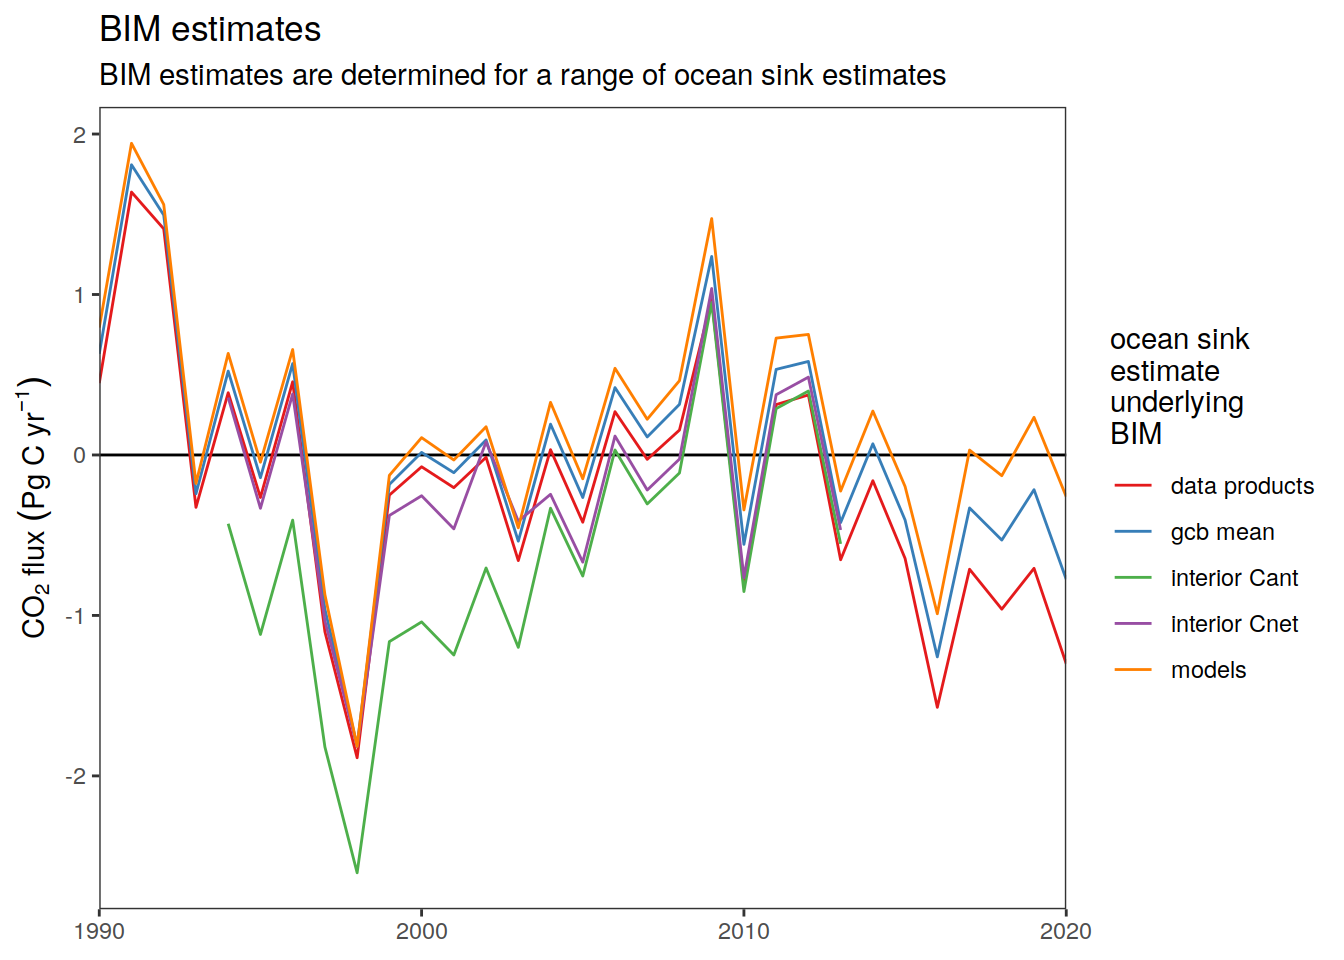
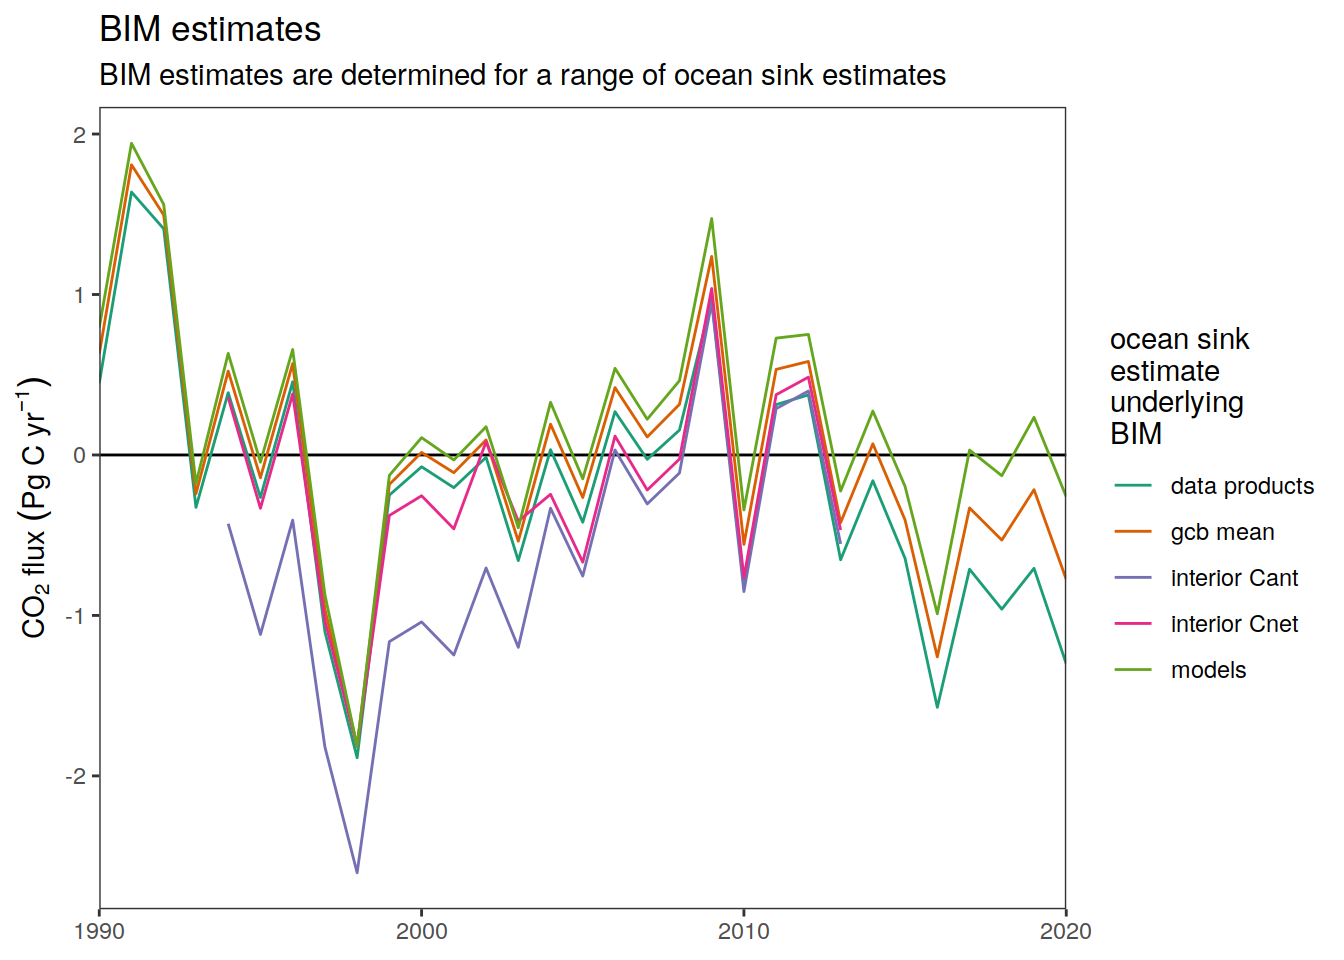
Build site.

diff --git a/docs/results_publication.html b/docs/results_publication.html
@@ -869,15 +869,15 @@ project makes it easier to run your code on other machines.</p>
 <div class="panel panel-default">
 <div class="panel-heading">
 <p class="panel-title">
-<a data-toggle="collapse" data-parent="#workflowr-checks" href="#strongRepositoryversionstrongahrefhttpsgithubcomjensdanielmuelleremlrobsanalysistreec01f61ea83335b03e895f214d7f63c0b4f1c13c4targetblankc01f61ea">
+<a data-toggle="collapse" data-parent="#workflowr-checks" href="#strongRepositoryversionstrongahrefhttpsgithubcomjensdanielmuelleremlrobsanalysistree104a756b48a90c8d1c2554d042a83e6f75883375targetblank104a756a">
 <span class="glyphicon glyphicon-ok text-success"
 aria-hidden="true"></span> <strong>Repository version:</strong>
-<a href="https://github.com/jens-daniel-mueller/emlr_obs_analysis/tree/c01f61ea83335b03e895f214d7f63c0b4f1c13c4" target="_blank">c01f61e</a>
+<a href="https://github.com/jens-daniel-mueller/emlr_obs_analysis/tree/104a756b48a90c8d1c2554d042a83e6f75883375" target="_blank">104a756</a>
 </a>
 </p>
 </div>
 <div
[2 lines of base64/hex data omitted]
 class="panel-collapse collapse">
 <div class="panel-body">
 <p>
@@ -887,7 +887,7 @@ reproducibility.
 </p>
 <p>
 The results in this page were generated with repository version
-<a href="https://github.com/jens-daniel-mueller/emlr_obs_analysis/tree/c01f61ea83335b03e895f214d7f63c0b4f1c13c4" target="_blank">c01f61e</a>.
+<a href="https://github.com/jens-daniel-mueller/emlr_obs_analysis/tree/104a756b48a90c8d1c2554d042a83e6f75883375" target="_blank">104a756</a>.
 See the <em>Past versions</em> tab to see a history of the changes made
 to the R Markdown and HTML files.
 </p>
@@ -963,6 +963,40 @@ Message
 </tr>
 </thead>
 <tbody>
+<tr>
+<td>
+Rmd
+</td>
+<td>
+<a href="https://github.com/jens-daniel-mueller/emlr_obs_analysis/blob/104a756b48a90c8d1c2554d042a83e6f75883375/analysis/results_publication.Rmd" target="_blank">104a756</a>
+</td>
+<td>
+jens-daniel-mueller
+</td>
+<td>
+2022-11-29
+</td>
+<td>
+refined BIM color scale
+</td>
+</tr>
+<tr>
+<td>
+html
+</td>
+<td>
+<a href="https://rawcdn.githack.com/jens-daniel-mueller/emlr_obs_analysis/439cb85a6a38a7ae7790e81cd684658038de9c39/docs/results_publication.html" target="_blank">439cb85</a>
+</td>
+<td>
+jens-daniel-mueller
+</td>
+<td>
+2022-11-29
+</td>
+<td>
+Build site.
+</td>
+</tr>
 <tr>
 <td>
 Rmd
@@ -40029,6 +40063,17 @@ Date
 <tbody>
 <tr>
 <td>
+<a href="https://github.com/jens-daniel-mueller/emlr_obs_analysis/blob/439cb85a6a38a7ae7790e81cd684658038de9c39/docs/figure/results_publication.Rmd/GCB_land_sink_assesment-1.png" target="_blank">439cb85</a>
+</td>
+<td>
+jens-daniel-mueller
+</td>
+<td>
+2022-11-29
+</td>
+</tr>
+<tr>
+<td>
 <a href="https://github.com/jens-daniel-mueller/emlr_obs_analysis/blob/9048dc40d3e160bd4651039e52c1337d6defdfe9/docs/figure/results_publication.Rmd/GCB_land_sink_assesment-1.png" target="_blank">9048dc4</a>
 </td>
 <td>
@@ -40115,6 +40160,17 @@ Date
 </tr>
 </thead>
 <tbody>
+<tr>
+<td>
+<a href="https://github.com/jens-daniel-mueller/emlr_obs_analysis/blob/439cb85a6a38a7ae7790e81cd684658038de9c39/docs/figure/results_publication.Rmd/GCB_land_sink_assesment-2.png" target="_blank">439cb85</a>
+</td>
+<td>
+jens-daniel-mueller
+</td>
+<td>
+2022-11-29
+</td>
+</tr>
 <tr>
 <td>
 <a href="https://github.com/jens-daniel-mueller/emlr_obs_analysis/blob/9048dc40d3e160bd4651039e52c1337d6defdfe9/docs/figure/results_publication.Rmd/GCB_land_sink_assesment-2.png" target="_blank">9048dc4</a>
@@ -40209,6 +40265,17 @@ Date
 <tbody>
 <tr>
 <td>
+<a href="https://github.com/jens-daniel-mueller/emlr_obs_analysis/blob/439cb85a6a38a7ae7790e81cd684658038de9c39/docs/figure/results_publication.Rmd/GCB_land_sink_assesment-3.png" target="_blank">439cb85</a>
+</td>
+<td>
+jens-daniel-mueller
+</td>
+<td>
+2022-11-29
+</td>
+</tr>
+<tr>
+<td>
 <a href="https://github.com/jens-daniel-mueller/emlr_obs_analysis/blob/9048dc40d3e160bd4651039e52c1337d6defdfe9/docs/figure/results_publication.Rmd/GCB_land_sink_assesment-3.png" target="_blank">9048dc4</a>
 </td>
 <td>
@@ -40299,6 +40366,17 @@ Date
 </tr>
 </thead>
 <tbody>
+<tr>
+<td>
+<a href="https://github.com/jens-daniel-mueller/emlr_obs_analysis/blob/439cb85a6a38a7ae7790e81cd684658038de9c39/docs/figure/results_publication.Rmd/GCB_land_sink_assesment-4.png" target="_blank">439cb85</a>
+</td>
+<td>
+jens-daniel-mueller
+</td>
+<td>
+2022-11-29
+</td>
+</tr>
 <tr>
 <td>
 <a href="https://github.com/jens-daniel-mueller/emlr_obs_analysis/blob/9048dc40d3e160bd4651039e52c1337d6defdfe9/docs/figure/results_publication.Rmd/GCB_land_sink_assesment-4.png" target="_blank">9048dc4</a>
@@ -40436,6 +40514,17 @@ Date
 </tr>
 </thead>
 <tbody>
+<tr>
+<td>
+<a href="https://github.com/jens-daniel-mueller/emlr_obs_analysis/blob/439cb85a6a38a7ae7790e81cd684658038de9c39/docs/figure/results_publication.Rmd/GCB_land_sink_assesment-5.png" target="_blank">439cb85</a>
+</td>
+<td>
+jens-daniel-mueller
+</td>
+<td>
+2022-11-29
+</td>
+</tr>
 <tr>
 <td>
 <a href="https://github.com/jens-daniel-mueller/emlr_obs_analysis/blob/9048dc40d3e160bd4651039e52c1337d6defdfe9/docs/figure/results_publication.Rmd/GCB_land_sink_assesment-5.png" target="_blank">9048dc4</a>
@@ -40580,6 +40669,17 @@ Date
 <tbody>
 <tr>
 <td>
+<a href="https://github.com/jens-daniel-mueller/emlr_obs_analysis/blob/439cb85a6a38a7ae7790e81cd684658038de9c39/docs/figure/results_publication.Rmd/GCB_land_sink_assesment-6.png" target="_blank">439cb85</a>
+</td>
+<td>
+jens-daniel-mueller
+</td>
+<td>
+2022-11-29
+</td>
+</tr>
+<tr>
+<td>
 <a href="https://github.com/jens-daniel-mueller/emlr_obs_analysis/blob/9048dc40d3e160bd4651039e52c1337d6defdfe9/docs/figure/results_publication.Rmd/GCB_land_sink_assesment-6.png" target="_blank">9048dc4</a>
 </td>
 <td>
@@ -40702,6 +40802,17 @@ Date
 <tbody>
 <tr>
 <td>
+<a href="https://github.com/jens-daniel-mueller/emlr_obs_analysis/blob/439cb85a6a38a7ae7790e81cd684658038de9c39/docs/figure/results_publication.Rmd/GCB_land_sink_assesment-7.png" target="_blank">439cb85</a>
+</td>
+<td>
+jens-daniel-mueller
+</td>
+<td>
+2022-11-29
+</td>
+</tr>
+<tr>
+<td>
 <a href="https://github.com/jens-daniel-mueller/emlr_obs_analysis/blob/9048dc40d3e160bd4651039e52c1337d6defdfe9/docs/figure/results_publication.Rmd/GCB_land_sink_assesment-7.png" target="_blank">9048dc4</a>
 </td>
 <td>
@@ -40812,6 +40923,17 @@ Date
 </tr>
 </thead>
 <tbody>
+<tr>
+<td>
+<a href="https://github.com/jens-daniel-mueller/emlr_obs_analysis/blob/439cb85a6a38a7ae7790e81cd684658038de9c39/docs/figure/results_publication.Rmd/GCB_land_sink_assesment-8.png" target="_blank">439cb85</a>
+</td>
+<td>
+jens-daniel-mueller
+</td>
+<td>
+2022-11-29
+</td>
+</tr>
 <tr>
 <td>
 <a href="https://github.com/jens-daniel-mueller/emlr_obs_analysis/blob/9048dc40d3e160bd4651039e52c1337d6defdfe9/docs/figure/results_publication.Rmd/GCB_land_sink_assesment-8.png" target="_blank">9048dc4</a>
@@ -41126,6 +41248,17 @@ Date
 <tbody>
 <tr>
 <td>
+<a href="https://github.com/jens-daniel-mueller/emlr_obs_analysis/blob/439cb85a6a38a7ae7790e81cd684658038de9c39/docs/figure/results_publication.Rmd/GCB_land_sink_assesment-10.png" target="_blank">439cb85</a>
+</td>
+<td>
+jens-daniel-mueller
+</td>
+<td>
+2022-11-29
+</td>
+</tr>
+<tr>
+<td>
 <a href="https://github.com/jens-daniel-mueller/emlr_obs_analysis/blob/9048dc40d3e160bd4651039e52c1337d6defdfe9/docs/figure/results_publication.Rmd/GCB_land_sink_assesment-10.png" target="_blank">9048dc4</a>
 </td>
 <td>
@@ -41297,7 +41430,7 @@ p_BIM_ocean &lt;- BIM_ocean %&gt;%
   geom_hline(yintercept = 0) +
   geom_line(aes(year, BIM, col = ocean_sink_estimate)) +
   scale_x_continuous(expand = c(0, 0)) +
-  scale_color_brewer(palette = &quot;Set1&quot;,
+  scale_color_brewer(palette = &quot;Dark2&quot;,
                      name = &quot;ocean sink\nestimate\nunderlying\nBIM&quot;) +
   labs(y = flux_label,
        title = &quot;BIM estimates&quot;,
@@ -41328,6 +41461,17 @@ Date
 </tr>
 </thead>
 <tbody>
+<tr>
+<td>
+<a href="https://github.com/jens-daniel-mueller/emlr_obs_analysis/blob/439cb85a6a38a7ae7790e81cd684658038de9c39/docs/figure/results_publication.Rmd/GCB_land_sink_assesment-12.png" target="_blank">439cb85</a>
+</td>
+<td>
+jens-daniel-mueller
+</td>
+<td>
+2022-11-29
+</td>
+</tr>
 <tr>
 <td>
 <a href="https://github.com/jens-daniel-mueller/emlr_obs_analysis/blob/9048dc40d3e160bd4651039e52c1337d6defdfe9/docs/figure/results_publication.Rmd/GCB_land_sink_assesment-12.png" target="_blank">9048dc4</a>

diff --git a/docs/index.html b/docs/index.html
@@ -785,15 +785,15 @@ project makes it easier to run your code on other machines.</p>
 <div class="panel panel-default">
 <div class="panel-heading">
 <p class="panel-title">
-<a data-toggle="collapse" data-parent="#workflowr-checks" href="#strongRepositoryversionstrongahrefhttpsgithubcomjensdanielmuelleremlrobsanalysistreec01f61ea83335b03e895f214d7f63c0b4f1c13c4targetblankc01f61ea">
+<a data-toggle="collapse" data-parent="#workflowr-checks" href="#strongRepositoryversionstrongahrefhttpsgithubcomjensdanielmuelleremlrobsanalysistree104a756b48a90c8d1c2554d042a83e6f75883375targetblank104a756a">
 <span class="glyphicon glyphicon-ok text-success"
 aria-hidden="true"></span> <strong>Repository version:</strong>
-<a href="https://github.com/jens-daniel-mueller/emlr_obs_analysis/tree/c01f61ea83335b03e895f214d7f63c0b4f1c13c4" target="_blank">c01f61e</a>
+<a href="https://github.com/jens-daniel-mueller/emlr_obs_analysis/tree/104a756b48a90c8d1c2554d042a83e6f75883375" target="_blank">104a756</a>
 </a>
 </p>
 </div>
 <div
[2 lines of base64/hex data omitted]
 class="panel-collapse collapse">
 <div class="panel-body">
 <p>
@@ -803,7 +803,7 @@ reproducibility.
 </p>
 <p>
 The results in this page were generated with repository version
-<a href="https://github.com/jens-daniel-mueller/emlr_obs_analysis/tree/c01f61ea83335b03e895f214d7f63c0b4f1c13c4" target="_blank">c01f61e</a>.
+<a href="https://github.com/jens-daniel-mueller/emlr_obs_analysis/tree/104a756b48a90c8d1c2554d042a83e6f75883375" target="_blank">104a756</a>.
 See the <em>Past versions</em> tab to see a history of the changes made
 to the R Markdown and HTML files.
 </p>
@@ -878,6 +878,23 @@ Message
 </tr>
 </thead>
 <tbody>
+<tr>
+<td>
+html
+</td>
+<td>
+<a href="https://rawcdn.githack.com/jens-daniel-mueller/emlr_obs_analysis/439cb85a6a38a7ae7790e81cd684658038de9c39/docs/index.html" target="_blank">439cb85</a>
+</td>
+<td>
+jens-daniel-mueller
+</td>
+<td>
+2022-11-29
+</td>
+<td>
+Build site.
+</td>
+</tr>
 <tr>
 <td>
 html
